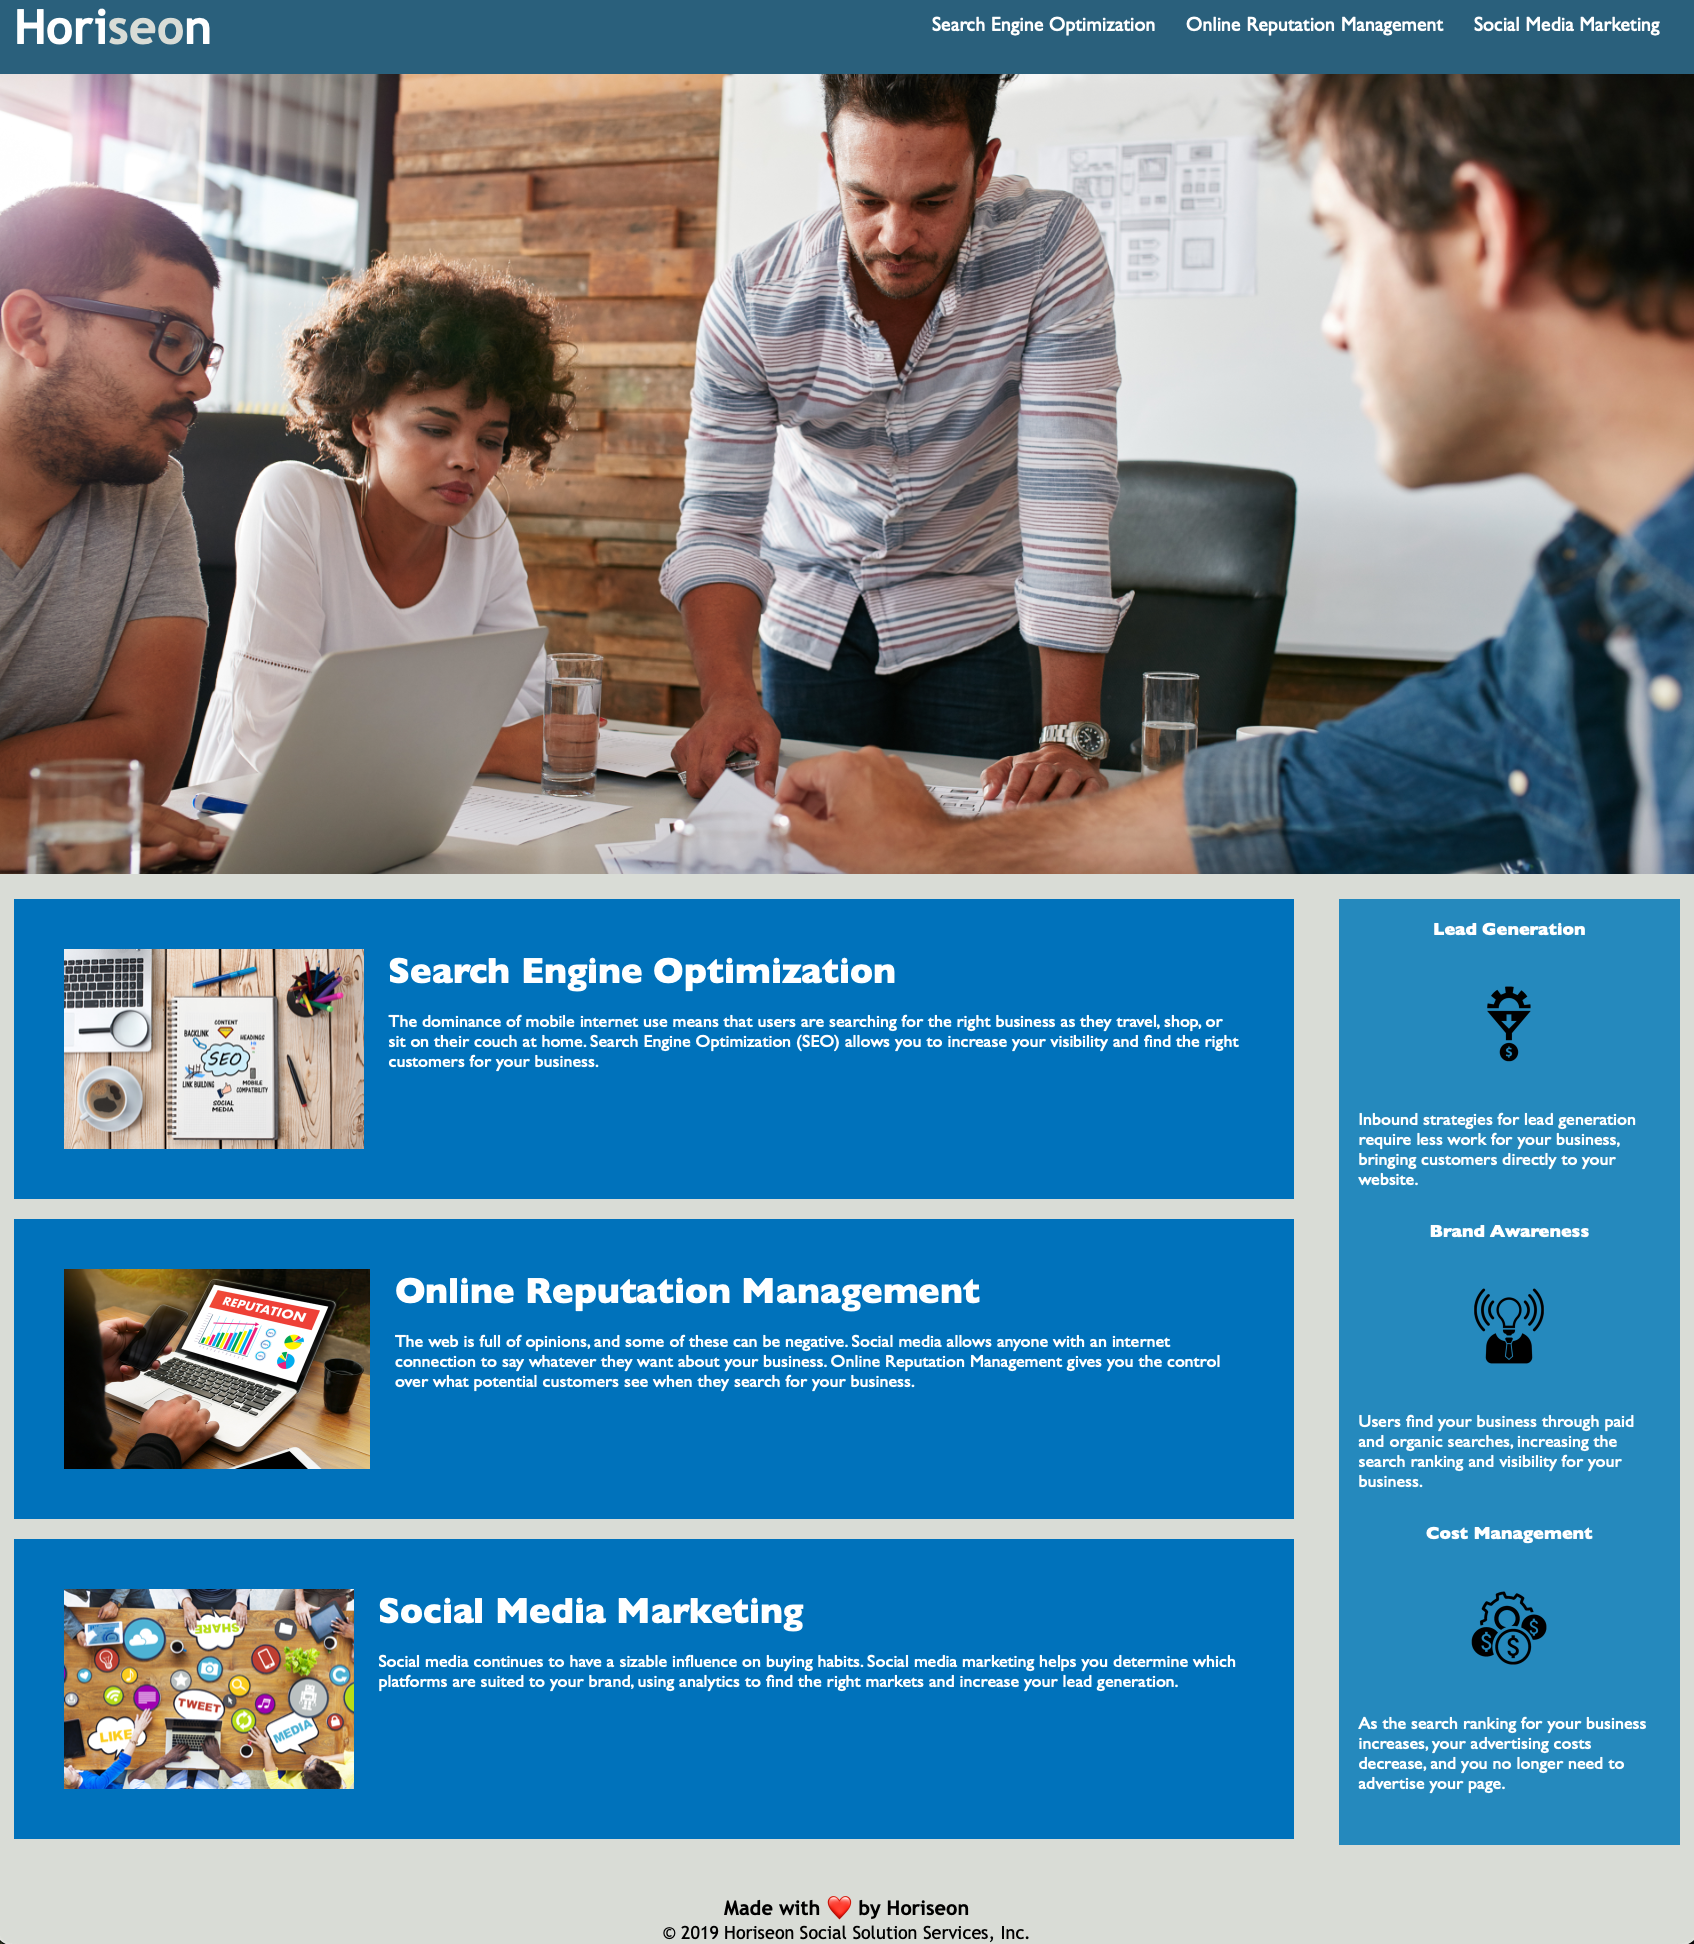
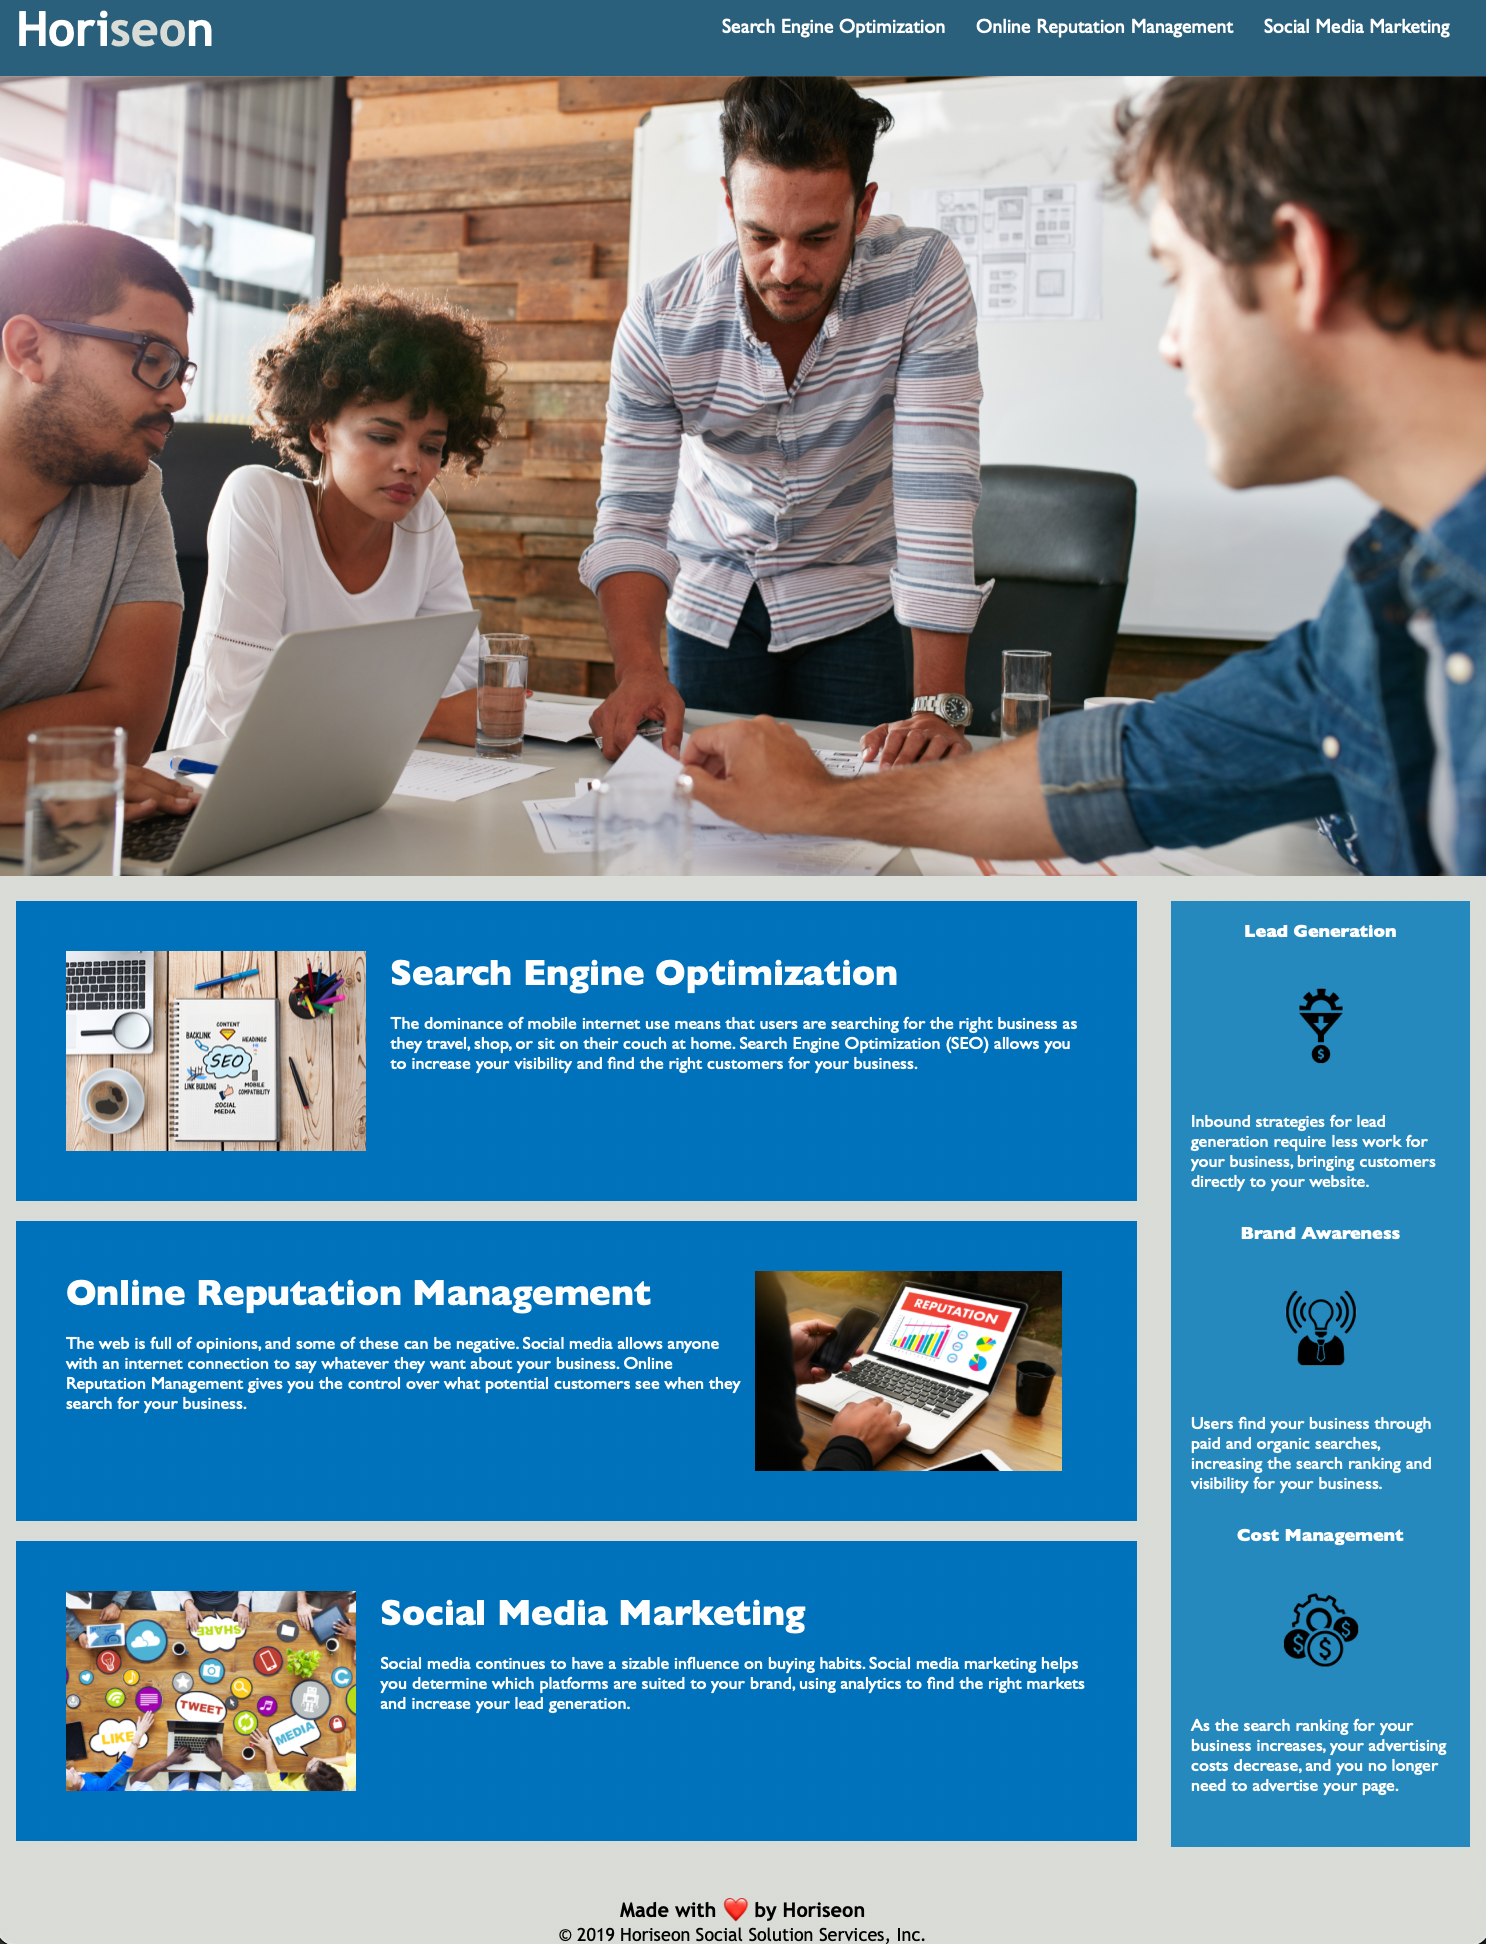
Fixed 'Online Reputation Management' image.

diff --git a/index.html b/index.html
@@ -38,17 +38,17 @@
       </article>
       <article id="online-reputation-management" class="online-reputation-management">
         <img src="./assets/images/online-reputation-management.jpg" class="float-right" alt="Laptop with charts and graphs labeled 'REPUTATION'. 'REPUTATION' graph is growing steadily." />
-        <h2>Online Reputation Management</h2>
-        <p>
-          The web is full of opinions, and some of these can be negative. Social media allows anyone with an internet connection to say whatever they want about your business. Online Reputation Management gives you the control over what potential customers see when they search for your business.
-        </p>
+          <h2>Online Reputation Management</h2>
+          <p>
+            The web is full of opinions, and some of these can be negative. Social media allows anyone with an internet connection to say whatever they want about your business. Online Reputation Management gives you the control over what potential customers see when they search for your business.
+          </p>
       </article>
       <article id="social-media-marketing" class="social-media-marketing">
         <img src="./assets/images/social-media-marketing.jpg" class="float-left" alt="Overview shot of a desk with several colorfuls tech-related icons." />
-        <h2>Social Media Marketing</h2>
-        <p>
-          Social media continues to have a sizable influence on buying habits. Social media marketing helps you determine which platforms are suited to your brand, using analytics to find the right markets and increase your lead generation.
-        </p>
+          <h2>Social Media Marketing</h2>
+          <p>
+            Social media continues to have a sizable influence on buying habits. Social media marketing helps you determine which platforms are suited to your brand, using analytics to find the right markets and increase your lead generation.
+          </p>
       </article>
     </section>
     <aside>
@@ -82,6 +82,7 @@
       &copy; 2019 Horiseon Social Solution Services, Inc.
     </p>
   </footer>
+
 </body>
 
 </html>

diff --git a/assets/css/style.css b/assets/css/style.css
@@ -91,8 +91,13 @@ aside {
 }
 
 /* Main page content */
-.float-left, .float-right {
+.float-left {
   float: left;
+  margin-right: 25px;
+}
+
+.float-right {
+  float: right;
   margin-right: 25px;
 }
 
